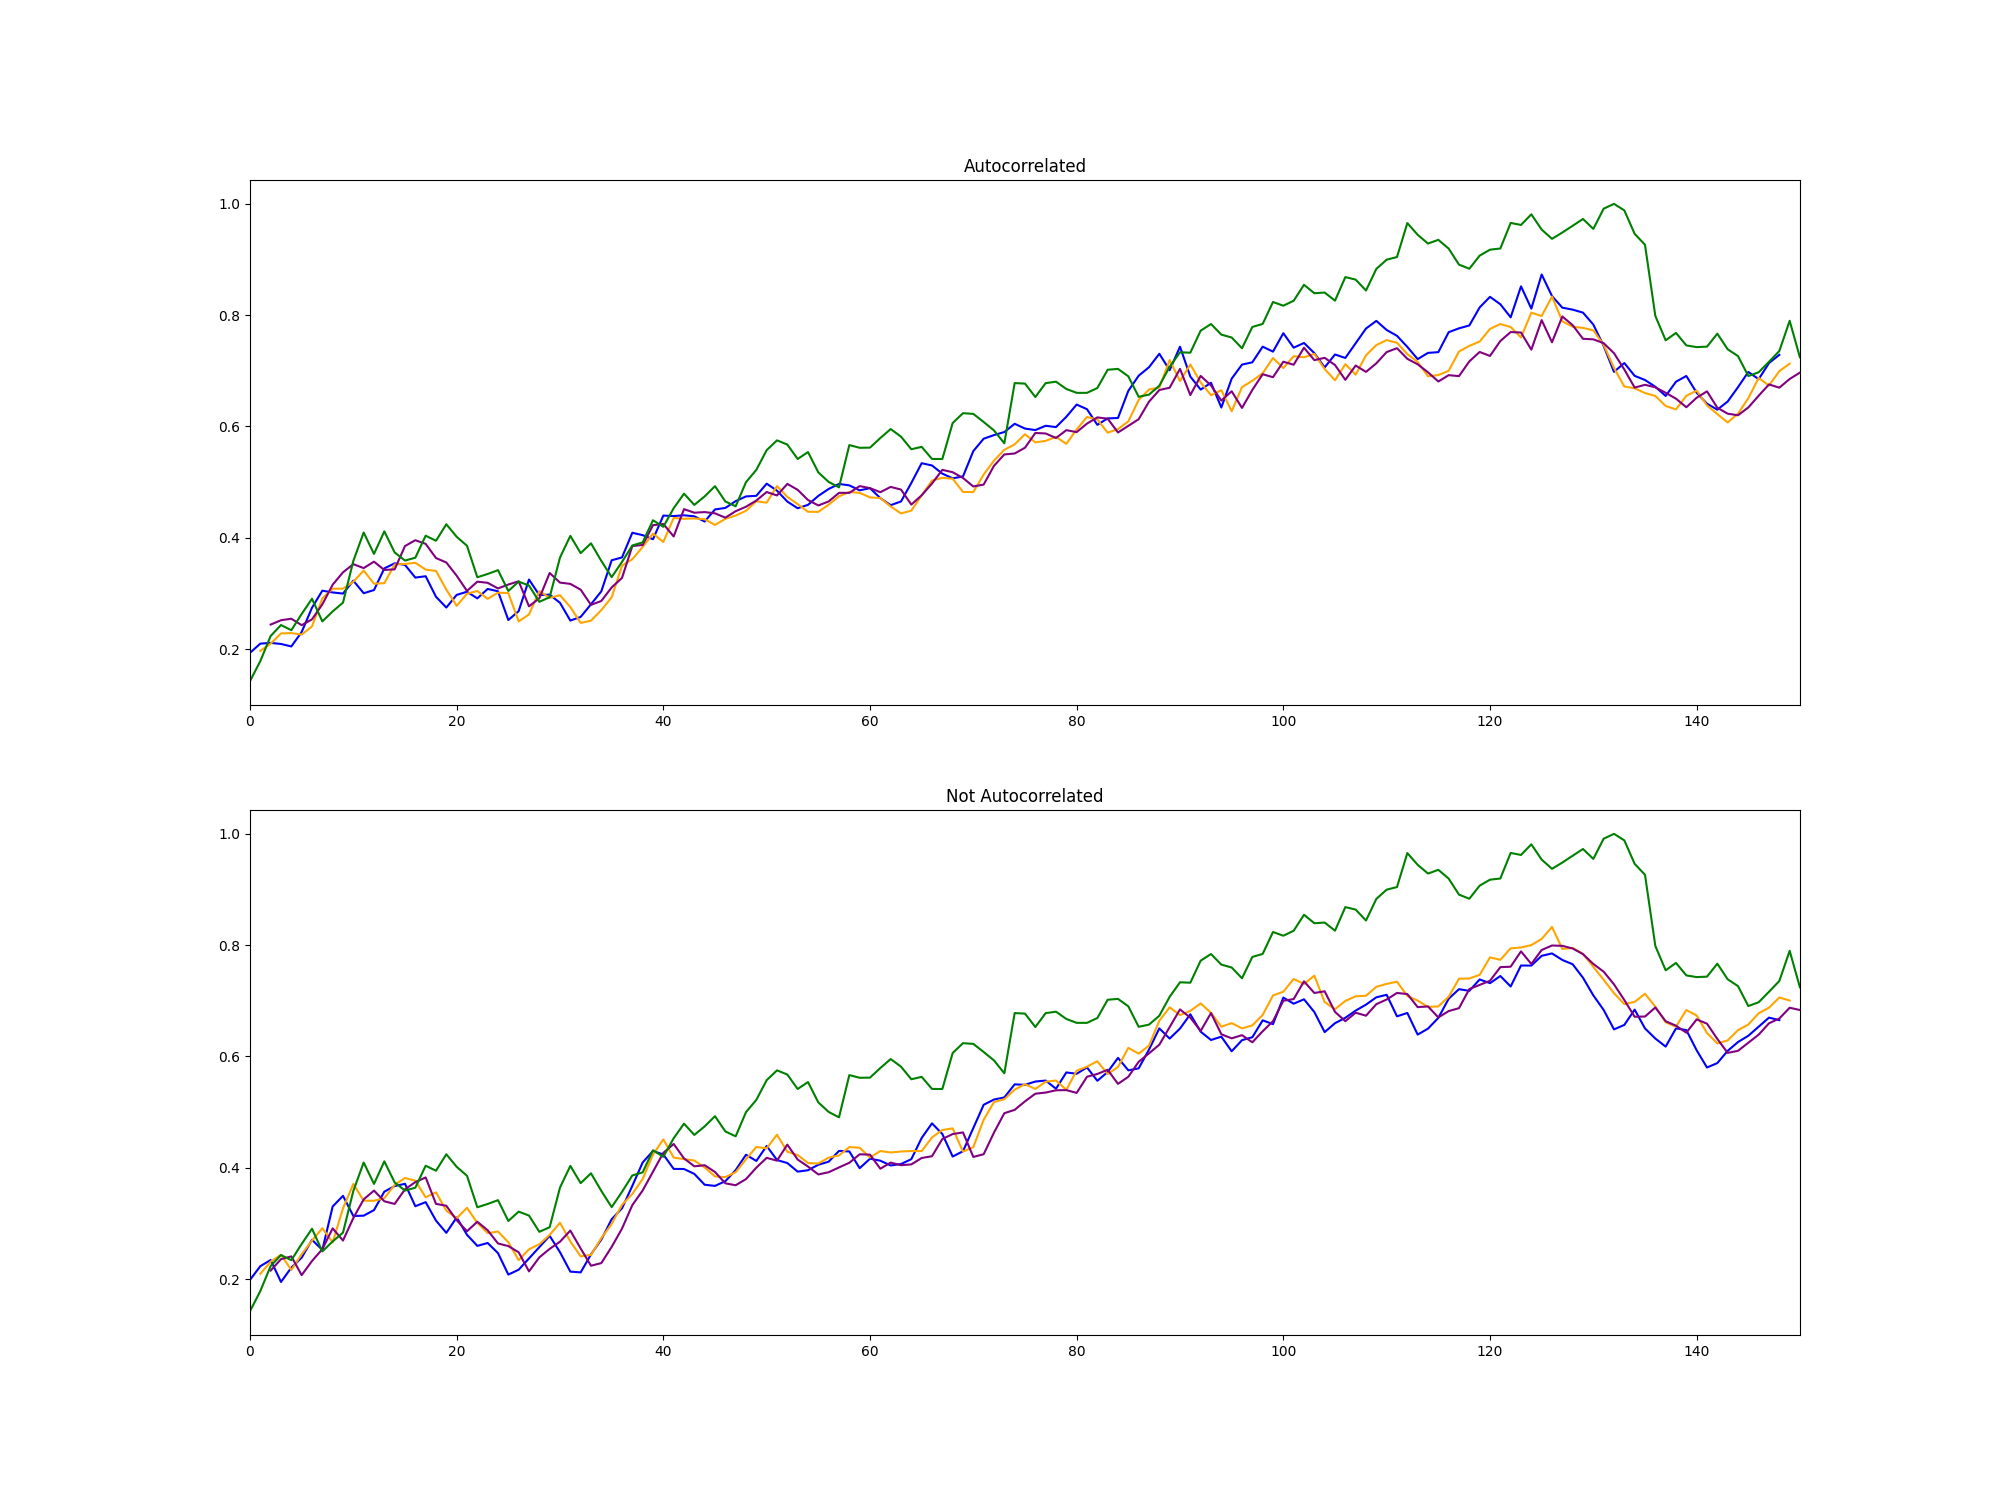
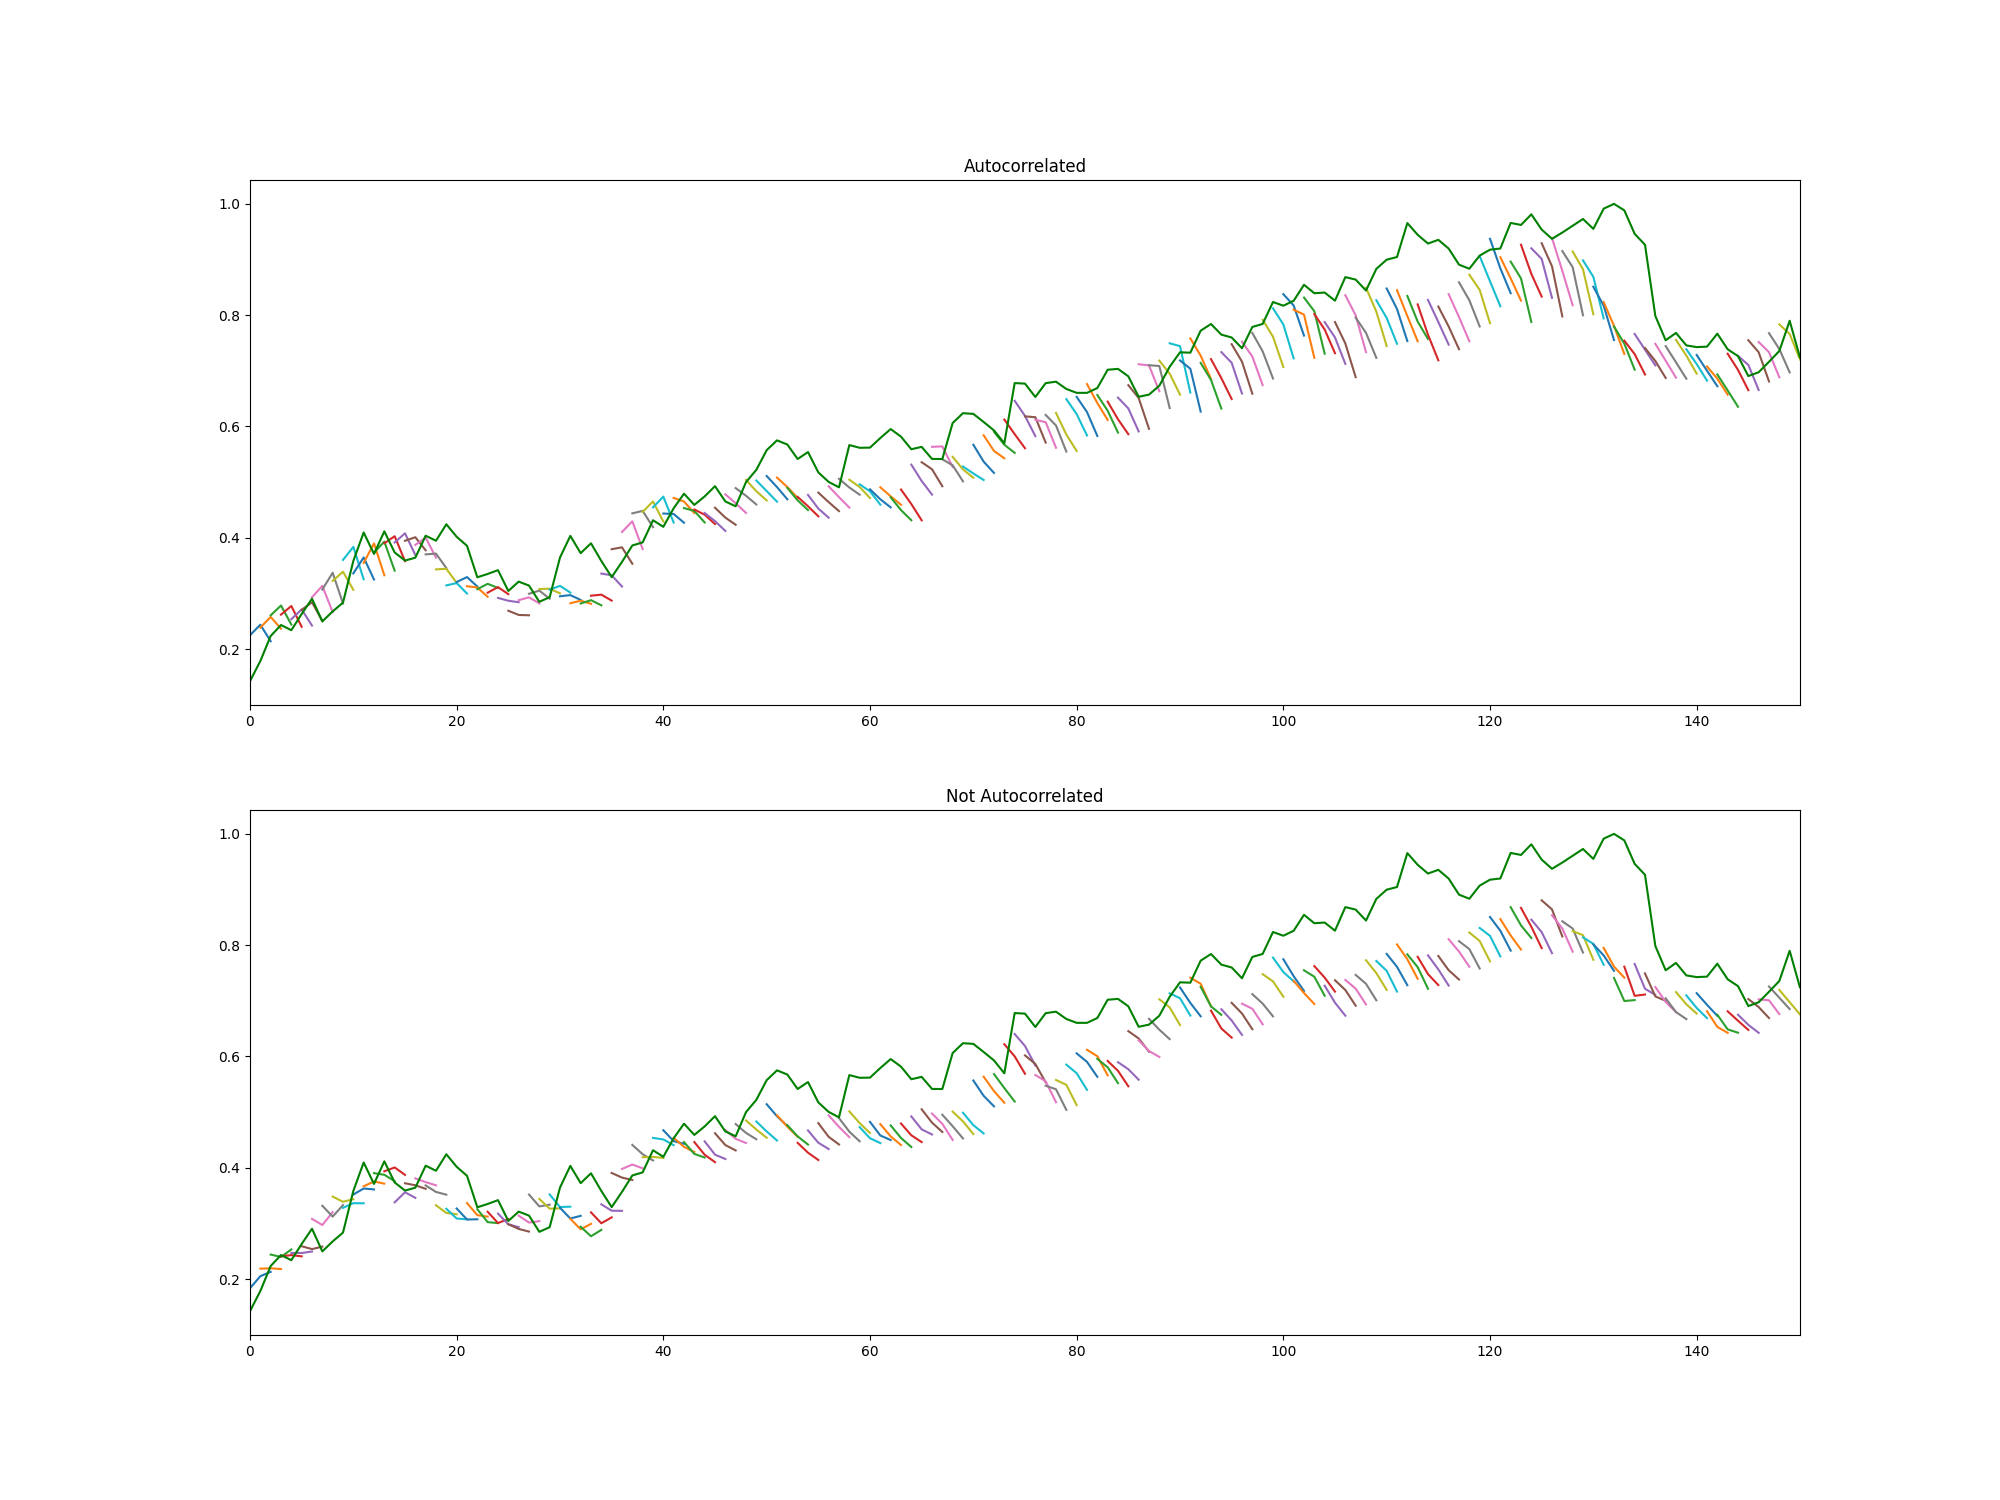
tested

diff --git a/main.py b/main.py
@@ -92,7 +92,7 @@ hidden_size = 40
 # output_size = 1
 
 lr = 0.01
-iterations=1000
+iterations=100
 fig, (ax1,ax2) = plt.subplots(2,1)
 fig.set_figheight(15)
 fig.set_figwidth(20)
@@ -112,48 +112,47 @@ count = 0
 count0 = []
 count1 = []
 count2  = [] 
-bluedata = []
-orangedata = []
-purpledata = []
+unfolded={"autocorrelated":{0:[],1:[],2:[]},"not":{0:[],1:[],2:[]}}
 for stream in data["autocorrelated"]:
     count0.append(count)
     count1.append(count+1)
     count2.append(count+2)
-    bluedata.append(stream[0,0])
-    orangedata.append(stream[1,0])
-    purpledata.append(stream[2,0])
-    # ax1.scatter([count],stream[0,0],color="blue")
+    unfolded["autocorrelated"][0].append(stream[0,0])
+    unfolded["autocorrelated"][1].append(stream[1,0])
+    unfolded["autocorrelated"][2].append(stream[2,0])
+    ax1.plot([count,count+1,count+2],stream[:,0])
     # ax1.scatter([count+1],stream[1,0],color="orange")
     # ax1.scatter([count+2],stream[2,0],color="purple")
     count +=1
-ax1.plot(count0,bluedata,color="blue")
-ax1.plot(count1,orangedata,color="orange")
-ax1.plot(count2,purpledata,color="purple")
+# ax1.scatter(count0,unfolded["autocorrelated"][0],color="blue")
+# ax1.scatter(count1,unfolded["autocorrelated"][1],color="orange")
+# ax1.scatter(count2,unfolded["autocorrelated"][2],color="purple")
 ax1.title.set_text('Autocorrelated')
 ax1.set_xlim(0,150)
 count = 0
-count0 = []
-count1 = []
-count2  = [] 
-bluedata = []
-orangedata = []
-purpledata = []
+
+
 for stream in data["not"]:
-    count0.append(count)
-    count1.append(count+1)
-    count2.append(count+2)
-    bluedata.append(stream[0,0])
-    orangedata.append(stream[1,0])
-    purpledata.append(stream[2,0])
+    unfolded["not"][0].append(stream[0,0])
+    unfolded["not"][1].append(stream[1,0])
+    unfolded["not"][2].append(stream[2,0])
+    ax2.plot([count,count+1,count+2],stream[:,0])
     count +=1
 ax2.title.set_text('Not Autocorrelated')
-ax2.plot(count0,bluedata,color="blue")
-ax2.plot(count1,orangedata,color="orange")
-ax2.plot(count2,purpledata,color="purple")
+# ax2.scatter(count0,unfolded["not"][0],color="blue")
+# ax2.scatter(count1,unfolded["not"][1],color="orange")
+# ax2.scatter(count2,unfolded["not"][2],color="purple")
 ax2.set_xlim(0,150)
 ax1.plot(stocksTotalY[stop:,0,0],color="green")
 ax2.plot(stocksTotalY[stop:,0,0],color="green")
 plt.savefig("feedforward_autocorr.png")
+
+
+plt.figure(figsize=(20,15))
+plt.plot(stocksTotalY[stop:,0,0],color="green")
+plt.plot(count0,unfolded["not"][0],color="red")
+plt.plot(count0,unfolded["autocorrelated"][0],color="salmon")
+plt.savefig("feedforward_autocorr_justones.png")
 # time_lstm =conver_to_lstm_data(stocks.index,input_sequence_length)
 
 # y_train = conver_to_lstm_data(y[0:stop],output_sequence_length)

diff --git a/model.py b/model.py
@@ -65,6 +65,8 @@ class NN(nn.Module):
                     outputs1 = outputs[0:3]
                     outputs2 = self.forward(torch.flatten(x_train_data[stream+3,:,:,:]))[0:3]
                     loss += ((outputs1[-1]-outputs2[0])**2).mean()*lambda_
+                    loss += (outputs1[0]-outputs1[1])**2*lambda_
+                    loss += (outputs1[1]-outputs1[2])**2*lambda_
                     
                 loss.backward()
                 self.optimizer.step()
